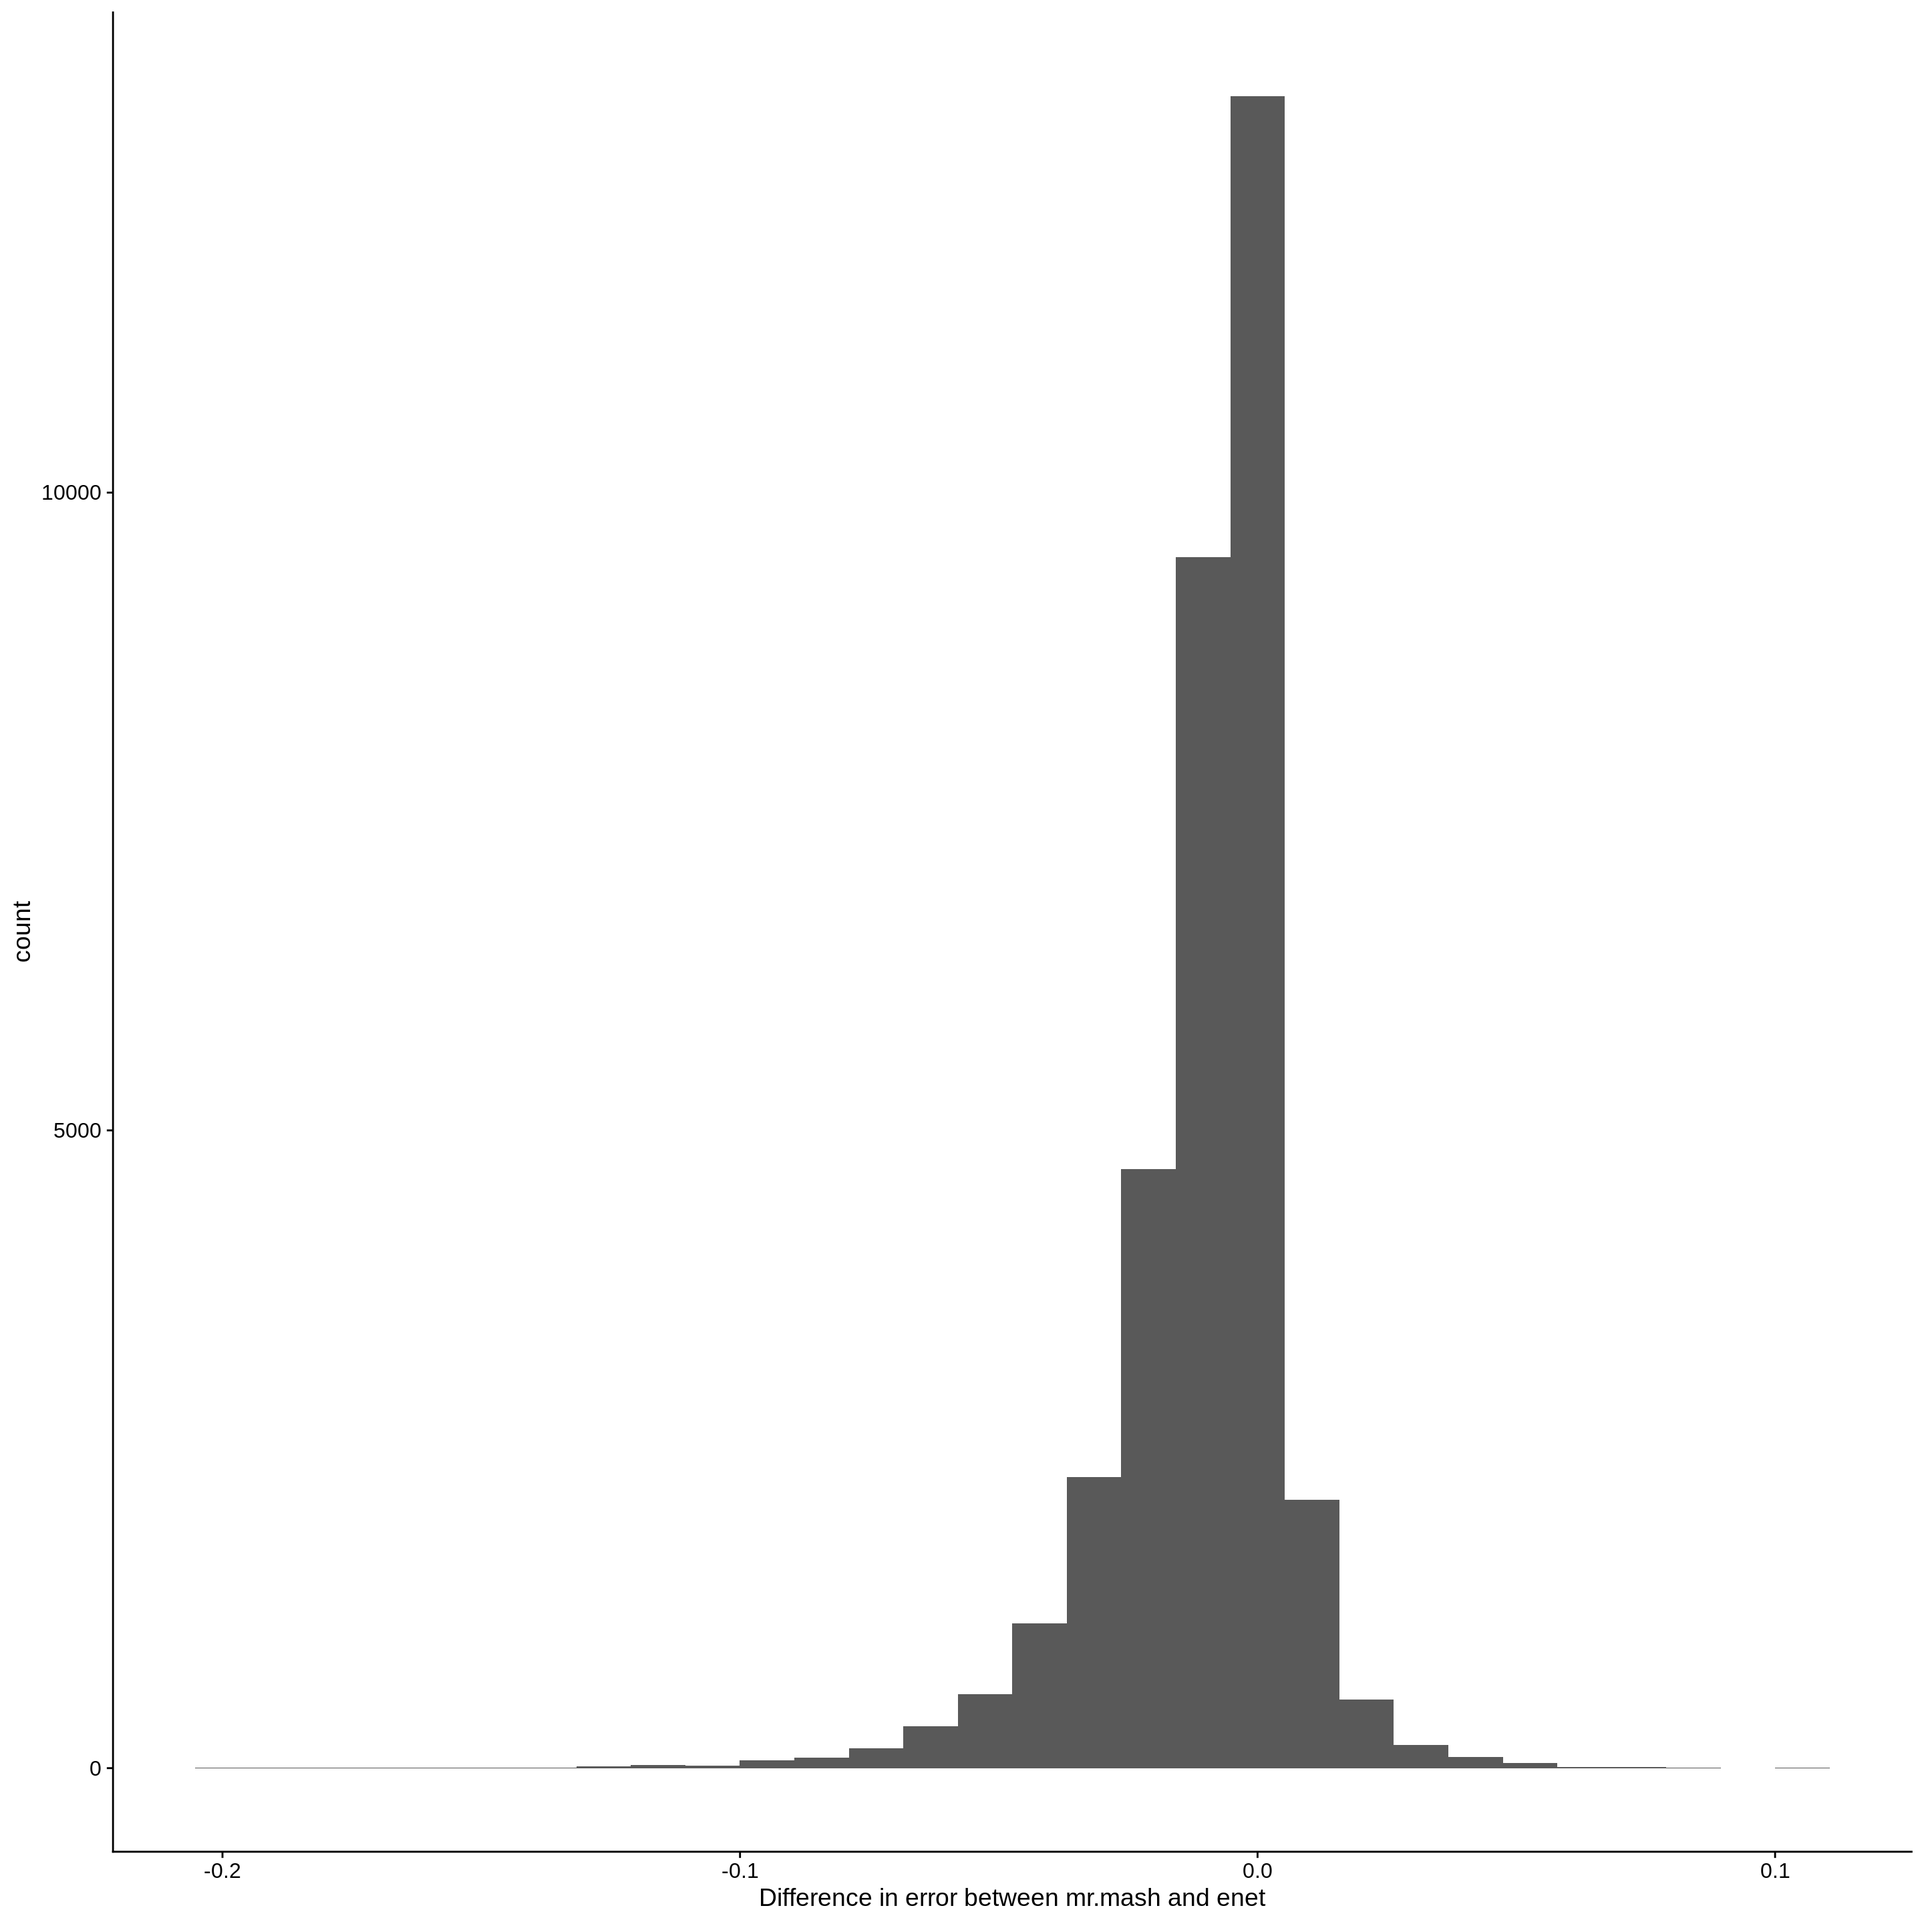
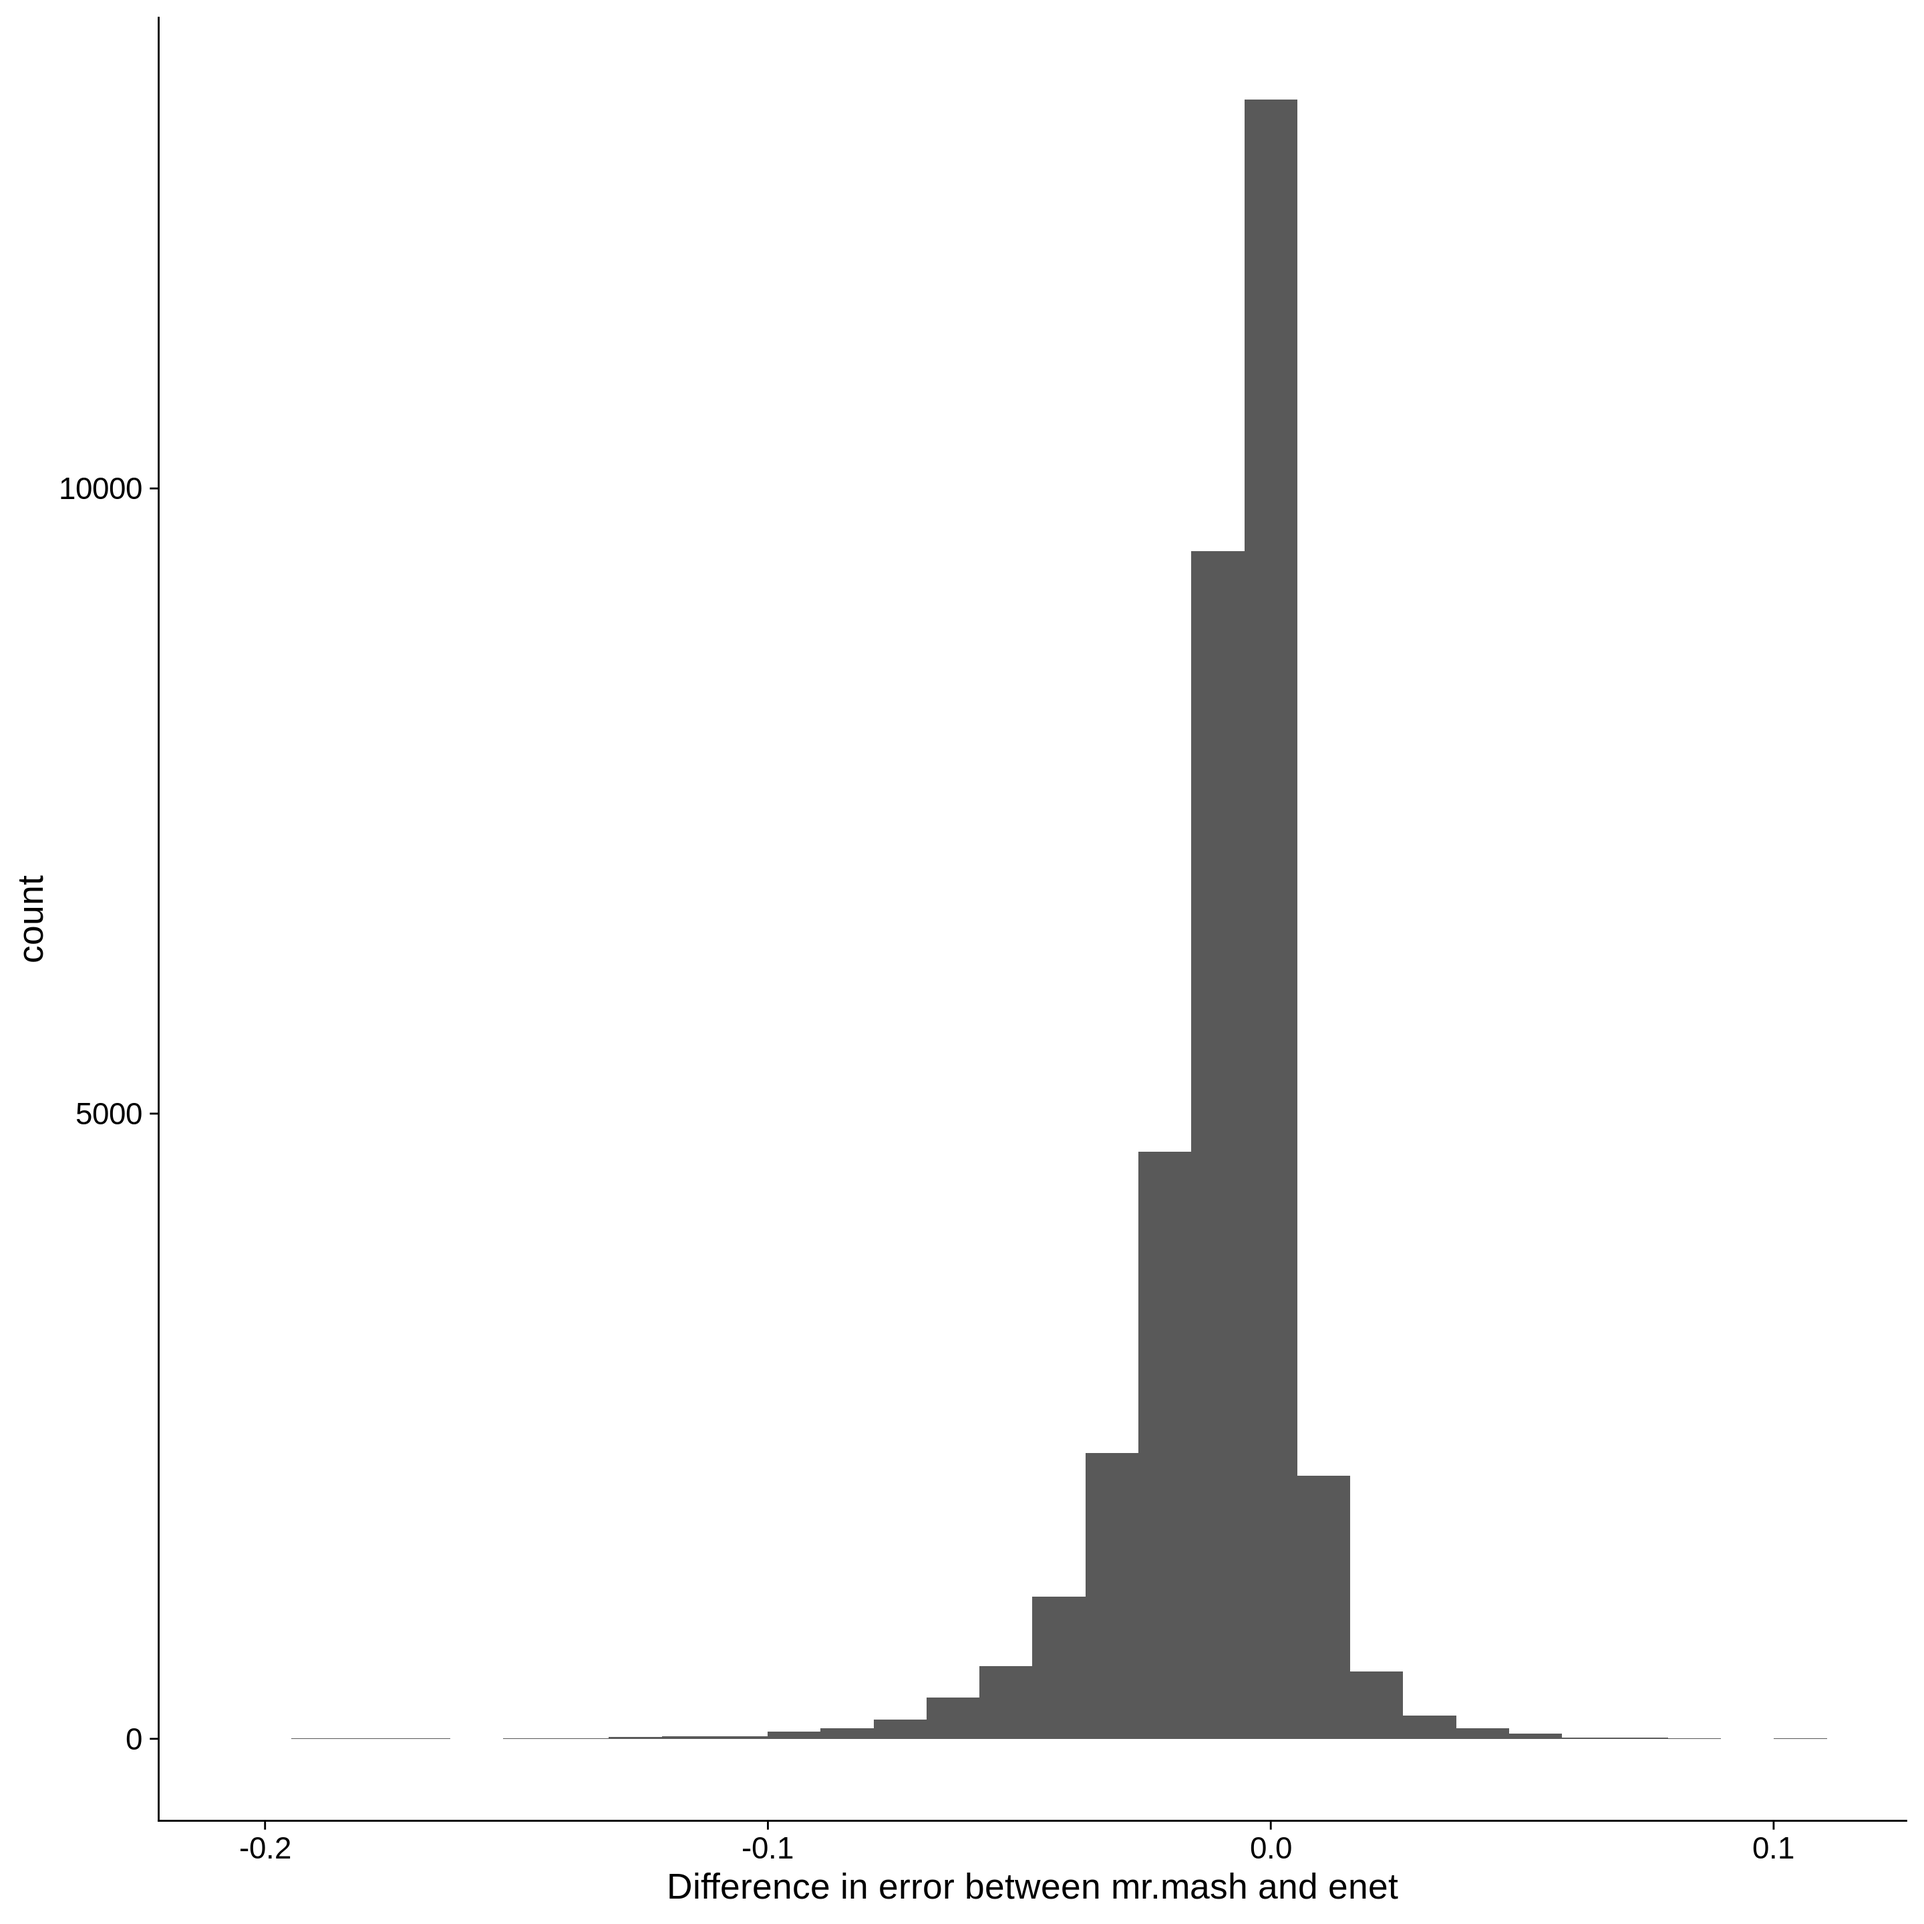
Build site.

diff --git a/docs/results_gtex_1000genes.html b/docs/results_gtex_1000genes.html
@@ -488,16 +488,16 @@ This reproducible <a href="http://rmarkdown.rstudio.com">R Markdown</a> analysis
 <div class="panel panel-default">
 <div class="panel-heading">
 <p class="panel-title">
-<a data-toggle="collapse" data-parent="#workflowr-checks" href="#strongRepositoryversionstrongahrefhttpsgithubcomfmorgantemrmashtesttree6c6d4b4e1e1440e522c3cbfd5d287808e9637463targetblank6c6d4b4a"> <span class="glyphicon glyphicon-ok text-success" aria-hidden="true"></span> <strong>Repository version:</strong> <a href="https://github.com/fmorgante/mr_mash_test/tree/6c6d4b4e1e1440e522c3cbfd5d287808e9637463" target="_blank">6c6d4b4</a> </a>
+<a data-toggle="collapse" data-parent="#workflowr-checks" href="#strongRepositoryversionstrongahrefhttpsgithubcomfmorgantemrmashtesttreeadf3f6732a8977f65e9b37a9066c5af5fd56d2d4targetblankadf3f67a"> <span class="glyphicon glyphicon-ok text-success" aria-hidden="true"></span> <strong>Repository version:</strong> <a href="https://github.com/fmorgante/mr_mash_test/tree/adf3f6732a8977f65e9b37a9066c5af5fd56d2d4" target="_blank">adf3f67</a> </a>
 </p>
 </div>
[2 lines of base64/hex data omitted]
 <div class="panel-body">
 <p>
 Great! You are using Git for version control. Tracking code development and connecting the code version to the results is critical for reproducibility.
 </p>
 <p>
-The results in this page were generated with repository version <a href="https://github.com/fmorgante/mr_mash_test/tree/6c6d4b4e1e1440e522c3cbfd5d287808e9637463" target="_blank">6c6d4b4</a>. See the <em>Past versions</em> tab to see a history of the changes made to the R Markdown and HTML files.
+The results in this page were generated with repository version <a href="https://github.com/fmorgante/mr_mash_test/tree/adf3f6732a8977f65e9b37a9066c5af5fd56d2d4" target="_blank">adf3f67</a>. See the <em>Past versions</em> tab to see a history of the changes made to the R Markdown and HTML files.
 </p>
 <p>
 Note that you need to be careful to ensure that all relevant files for the analysis have been committed to Git prior to generating the results (you can use <code>wflow_publish</code> or <code>wflow_git_commit</code>). workflowr only checks the R Markdown file, but you know if there are other scripts or data files that it depends on. Below is the status of the Git repository when the results were generated:
@@ -2886,6 +2886,40 @@ Message
 Rmd
 </td>
 <td>
+<a href="https://github.com/fmorgante/mr_mash_test/blob/adf3f6732a8977f65e9b37a9066c5af5fd56d2d4/analysis/results_gtex_1000genes.Rmd" target="_blank">adf3f67</a>
+</td>
+<td>
+Fabio Morgante
+</td>
+<td>
+2021-11-24
+</td>
+<td>
+A couple of improvements
+</td>
+</tr>
+<tr>
+<td>
+html
+</td>
+<td>
+<a href="https://rawcdn.githack.com/fmorgante/mr_mash_test/38c5a01210a9c2d650c6e9f1243893cd016b49fb/docs/results_gtex_1000genes.html" target="_blank">38c5a01</a>
+</td>
+<td>
+Fabio Morgante
+</td>
+<td>
+2021-11-24
+</td>
+<td>
+Build site.
+</td>
+</tr>
+<tr>
+<td>
+Rmd
+</td>
+<td>
 <a href="https://github.com/fmorgante/mr_mash_test/blob/6c6d4b4e1e1440e522c3cbfd5d287808e9637463/analysis/results_gtex_1000genes.Rmd" target="_blank">6c6d4b4</a>
 </td>
 <td>
@@ -2986,10 +3020,56 @@ rmse_diff &lt;- as.matrix(rmse_mrmash) - as.matrix(rmse_enet)
 rmse_diff_pooled &lt;- data.frame(RMSE_diff=c(rmse_diff))</code></pre>
 <div id="pooled-across-tissues" class="section level3">
 <h3>Pooled across tissues</h3>
-<pre class="r"><code>p_pooled &lt;- ggplot(rmse_diff_pooled, aes(x=RMSE_diff)) + geom_histogram() + labs(x = &quot;Difference in error between mr.mash and enet&quot;) + theme_cowplot()
+<pre class="r"><code>p_pooled &lt;- ggplot(rmse_diff_pooled, aes(x=RMSE_diff)) + geom_histogram() + labs(x = &quot;Difference in error between mr.mash and enet&quot;) + theme_cowplot(font_size = 20)
 p_pooled</code></pre>
 <pre><code>Warning: Removed 12823 rows containing non-finite values (stat_bin).</code></pre>
 <p><img src="figure/results_gtex_1000genes.Rmd/pooled%20tissuess-1.png" width="1440" style="display: block; margin: auto;" /></p>
+<p>
+<button type="button" class="btn btn-default btn-xs btn-workflowr btn-workflowr-fig" data-toggle="collapse" data-target="#fig-no-spaces-pooled-tissuess-1">
+Past versions of "pooled tissuess-1.png"
+</button>
+</p>
+<div id="fig-no-spaces-pooled-tissuess-1" class="collapse">
+<div class="table-responsive">
+<table class="table table-condensed table-hover">
+<thead>
+<tr>
+<th>
+Version
+</th>
+<th>
+Author
+</th>
+<th>
+Date
+</th>
+</tr>
+</thead>
+<tbody>
+<tr>
+<td>
+<a href="https://github.com/fmorgante/mr_mash_test/blob/38c5a01210a9c2d650c6e9f1243893cd016b49fb/docs/figure/results_gtex_1000genes.Rmd/pooled tissuess-1.png" target="_blank">38c5a01</a>
+</td>
+<td>
+Fabio Morgante
+</td>
+<td>
+2021-11-24
+</td>
+</tr>
+</tbody>
+</table>
+</div>
+</div>
+<pre class="r"><code>summary(rmse_diff_pooled)</code></pre>
+<pre><code>   RMSE_diff     
+ Min.   :-0.203  
+ 1st Qu.:-0.017  
+ Median :-0.006  
+ Mean   :-0.010  
+ 3rd Qu.: 0.000  
+ Max.   : 0.103  
+ NA&#39;s   :12823   </code></pre>
 </div>
 <div id="by-tissue" class="section level3">
 <h3>By tissue</h3>

diff --git a/docs/index.html b/docs/index.html
@@ -348,16 +348,16 @@ This reproducible <a href="http://rmarkdown.rstudio.com">R Markdown</a> analysis
 <div class="panel panel-default">
 <div class="panel-heading">
 <p class="panel-title">
-<a data-toggle="collapse" data-parent="#workflowr-checks" href="#strongRepositoryversionstrongahrefhttpsgithubcomfmorgantemrmashtesttree6c6d4b4e1e1440e522c3cbfd5d287808e9637463targetblank6c6d4b4a"> <span class="glyphicon glyphicon-ok text-success" aria-hidden="true"></span> <strong>Repository version:</strong> <a href="https://github.com/fmorgante/mr_mash_test/tree/6c6d4b4e1e1440e522c3cbfd5d287808e9637463" target="_blank">6c6d4b4</a> </a>
+<a data-toggle="collapse" data-parent="#workflowr-checks" href="#strongRepositoryversionstrongahrefhttpsgithubcomfmorgantemrmashtesttreeadf3f6732a8977f65e9b37a9066c5af5fd56d2d4targetblankadf3f67a"> <span class="glyphicon glyphicon-ok text-success" aria-hidden="true"></span> <strong>Repository version:</strong> <a href="https://github.com/fmorgante/mr_mash_test/tree/adf3f6732a8977f65e9b37a9066c5af5fd56d2d4" target="_blank">adf3f67</a> </a>
 </p>
 </div>
[2 lines of base64/hex data omitted]
 <div class="panel-body">
 <p>
 Great! You are using Git for version control. Tracking code development and connecting the code version to the results is critical for reproducibility.
 </p>
 <p>
-The results in this page were generated with repository version <a href="https://github.com/fmorgante/mr_mash_test/tree/6c6d4b4e1e1440e522c3cbfd5d287808e9637463" target="_blank">6c6d4b4</a>. See the <em>Past versions</em> tab to see a history of the changes made to the R Markdown and HTML files.
+The results in this page were generated with repository version <a href="https://github.com/fmorgante/mr_mash_test/tree/adf3f6732a8977f65e9b37a9066c5af5fd56d2d4" target="_blank">adf3f67</a>. See the <em>Past versions</em> tab to see a history of the changes made to the R Markdown and HTML files.
 </p>
 <p>
 Note that you need to be careful to ensure that all relevant files for the analysis have been committed to Git prior to generating the results (you can use <code>wflow_publish</code> or <code>wflow_git_commit</code>). workflowr only checks the R Markdown file, but you know if there are other scripts or data files that it depends on. Below is the status of the Git repository when the results were generated:
@@ -2741,6 +2741,23 @@ Message
 </tr>
 </thead>
 <tbody>
+<tr>
+<td>
+html
+</td>
+<td>
+<a href="https://rawcdn.githack.com/fmorgante/mr_mash_test/38c5a01210a9c2d650c6e9f1243893cd016b49fb/docs/index.html" target="_blank">38c5a01</a>
+</td>
+<td>
+Fabio Morgante
+</td>
+<td>
+2021-11-24
+</td>
+<td>
+Build site.
+</td>
+</tr>
 <tr>
 <td>
 html
